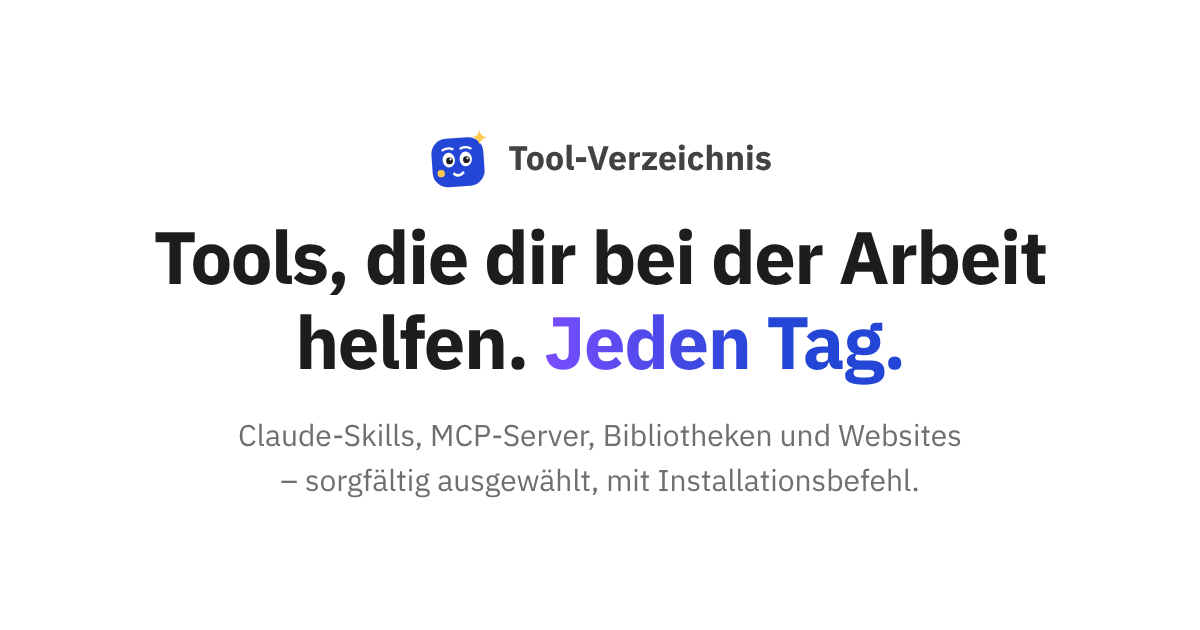
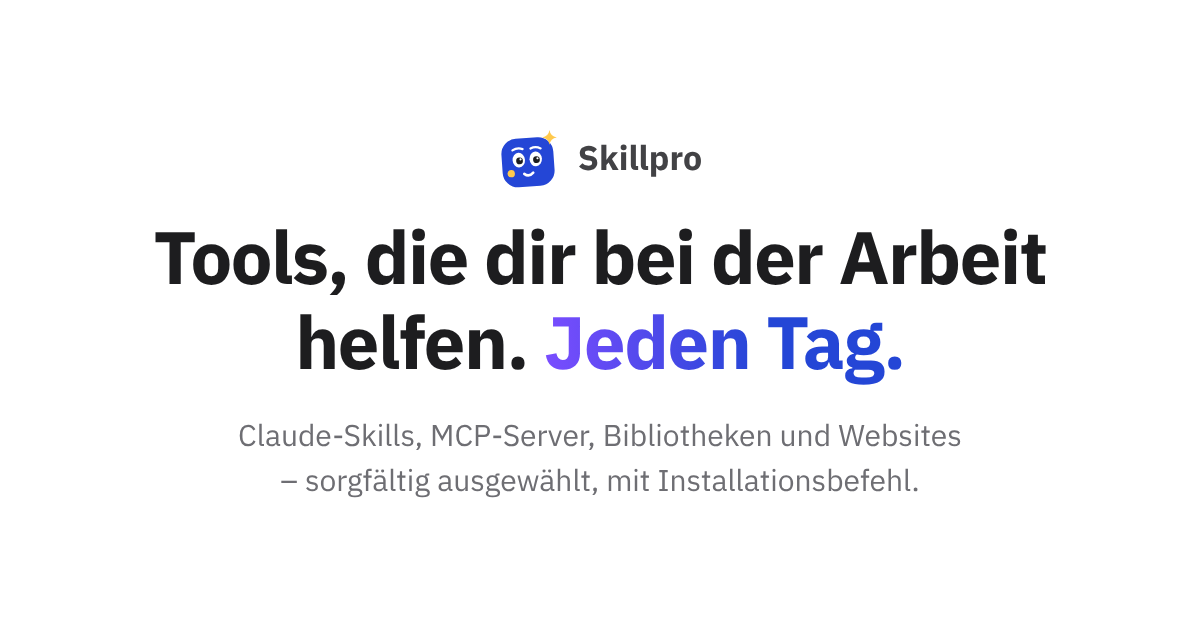
Rename the site to Skillpro
Skillpro is now the site name in all three languages: top bar, footer,
the large footer wordmark, page and tab titles (tool, category, compare
and favorites pages end in "| Skillpro"), the home title with its
description ("Skillpro – Tool-Verzeichnis für Design und Entwicklung"
and the Arabic and English equivalents), app manifest names, RSS feed
titles, JSON-LD, the home share images and the brand files.

The footer wordmark is Latin on every page now, so it uses one measured
fit (2.39 characters per em, 7% margin) and the same tracking in all
languages, and may grow to 15rem.

Claude-Session: https://claude.ai/code/session_01LGqogJL11KDokJKinNCQ2R

Changed region(s): [[0.3392, 0.2111, 0.6475, 0.3016]]

diff --git a/src/i18n/ui.ts b/src/i18n/ui.ts
@@ -1,11 +1,11 @@
 // نصوص الواجهة لكل لغة (وقت البناء). المفاتيح المنتهية بـ _h فيها HTML وتُعرض بـ set:html.
 // نصوص السكربتات في المتصفح موجودة في src/i18n/client.js.
 const ar = {
-  siteName: "دليل الأدوات",
-  siteTitle: "دليل أدوات التصميم والتطوير",
+  siteName: "Skillpro",
+  siteTitle: "Skillpro – دليل أدوات التصميم والتطوير",
   skip: "تخطَّ إلى المحتوى",
   home: "الرئيسية",
-  homeAria: "دليل الأدوات: الصفحة الرئيسية",
+  homeAria: "Skillpro: الصفحة الرئيسية",
   navAria: "التنقل الرئيسي",
   navTools: "الأدوات",
   navBuild: "ماذا تبني؟",
@@ -25,7 +25,7 @@ const ar = {
   footColJoin: "شارك في الدليل",
   footAll: "كل الأدوات",
   footRss: "خلاصة RSS",
-  footRights: (y: number) => `© ${y} دليل الأدوات`,
+  footRights: (y: number) => `© ${y} Skillpro`,
   rssTitle: "أحدث الأدوات المضافة",
   toTop: "العودة إلى الأعلى",
   themeAria: "تبديل الوضع الداكن",
@@ -141,7 +141,7 @@ const ar = {
   officialSite: "الموقع الرسمي",
 
   // صفحة الأداة
-  toolTitle: (name: string) => `${name} | دليل أدوات التصميم والتطوير`,
+  toolTitle: (name: string) => `${name} | Skillpro`,
   crumbAria: "مسار الصفحة",
   openGitHub_h: "افتح على <bdi>GitHub</bdi>",
   openAppStore: "افتح في App Store",
@@ -186,10 +186,10 @@ const ar = {
   otherLicense: "رخصة خاصة",
   relatedTitle_h: "قد يعجبك أيضًا. <span>أدوات من القسم نفسه.</span>",
   trustTitle_h: "الأمان والثقة. <span>ما تعرفه قبل التثبيت.</span>",
-  catTitle: (name: string) => `${name} | دليل أدوات التصميم والتطوير`,
+  catTitle: (name: string) => `${name} | Skillpro`,
   catDesc: (n: number, name: string) => `${n} أداة مختارة في قسم «${name}»، مرتبة حسب نجوم GitHub، مع أمر التثبيت لكل أداة.`,
   otherCats_h: "أقسام أخرى. <span>تصفّح بقية الدليل.</span>",
-  cmpTitle: "مقارنة الأدوات | دليل أدوات التصميم والتطوير",
+  cmpTitle: "مقارنة الأدوات | Skillpro",
   cmpH1: "قارن بين الأدوات",
   cmpLead: "اختر حتى ثلاث أدوات لترى الفروق بينها جنبًا إلى جنب: من ينشرها، وأين تعمل، والرخصة، وطريقة التثبيت.",
   cmpChosen: "الأدوات المختارة للمقارنة",
@@ -226,7 +226,7 @@ const ar = {
   toolFoot: "المعلومات مأخوذة من صفحة المشروع الرسمية، وقد تتغير. تحقق من الرخصة وشروط الاستخدام قبل الاعتماد على أي أداة في عمل تجاري.",
 
   // المفضلة
-  favTitle: "المفضلة | دليل أدوات التصميم والتطوير",
+  favTitle: "المفضلة | Skillpro",
   favDesc: "الأدوات التي حفظتها في المفضلة.",
   favH1: "المفضلة",
   favLead: "الأدوات التي ضغطت عليها بالقلب تظهر هنا. تُحفظ في متصفحك فقط على هذا الجهاز.",
@@ -251,7 +251,7 @@ const ar = {
   favFoot: "المفضلة محفوظة في هذا المتصفح فقط. إن مسحت بيانات الموقع أو غيّرت الجهاز فلن تجدها.",
 
   // خلاصة RSS
-  feedTitle: "دليل أدوات التصميم والتطوير: أحدث الإضافات",
+  feedTitle: "Skillpro: أحدث الإضافات",
   feedDesc: "أحدث الأدوات المضافة إلى الدليل",
 
   // نافذة الرأي
@@ -326,11 +326,11 @@ const ar = {
 type Dict = typeof ar;
 
 const de: Dict = {
-  siteName: "Tool-Verzeichnis",
-  siteTitle: "Tool-Verzeichnis für Design und Entwicklung",
+  siteName: "Skillpro",
+  siteTitle: "Skillpro – Tool-Verzeichnis für Design und Entwicklung",
   skip: "Zum Inhalt springen",
   home: "Startseite",
-  homeAria: "Tool-Verzeichnis: Startseite",
+  homeAria: "Skillpro: Startseite",
   navAria: "Hauptnavigation",
   navTools: "Tools",
   navBuild: "Was baust du?",
@@ -349,7 +349,7 @@ const de: Dict = {
   footColJoin: "Mitmachen",
   footAll: "Alle Tools",
   footRss: "RSS-Feed",
-  footRights: (y: number) => `© ${y} Tool-Verzeichnis`,
+  footRights: (y: number) => `© ${y} Skillpro`,
   rssTitle: "Zuletzt hinzugefügte Tools",
   toTop: "Nach oben",
   themeAria: "Dunkelmodus umschalten",
@@ -462,7 +462,7 @@ const de: Dict = {
   copy: "Kopieren",
   officialSite: "Website",
 
-  toolTitle: (name: string) => `${name} | Tool-Verzeichnis`,
+  toolTitle: (name: string) => `${name} | Skillpro`,
   crumbAria: "Seitenpfad",
   openGitHub_h: "Auf GitHub öffnen",
   openAppStore: "Im App Store öffnen",
@@ -507,10 +507,10 @@ const de: Dict = {
   otherLicense: "Eigene Lizenz",
   relatedTitle_h: "Das könnte dir auch gefallen. <span>Tools aus derselben Kategorie.</span>",
   trustTitle_h: "Sicherheit und Vertrauen. <span>Was du vor der Installation wissen solltest.</span>",
-  catTitle: (name: string) => `${name} | Tool-Verzeichnis`,
+  catTitle: (name: string) => `${name} | Skillpro`,
   catDesc: (n: number, name: string) => `${n} ausgewählte Tools in der Kategorie „${name}“, nach GitHub-Sternen sortiert, mit dem Installationsbefehl für jedes Tool.`,
   otherCats_h: "Weitere Kategorien. <span>Stöbere im restlichen Verzeichnis.</span>",
-  cmpTitle: "Tools vergleichen | Tool-Verzeichnis",
+  cmpTitle: "Tools vergleichen | Skillpro",
   cmpH1: "Tools vergleichen",
   cmpLead: "Wähle bis zu drei Tools und sieh die Unterschiede nebeneinander: wer sie herausgibt, wo sie laufen, die Lizenz und die Installation.",
   cmpChosen: "Ausgewählte Tools",
@@ -546,7 +546,7 @@ const de: Dict = {
   rpThanks: "Danke! Wir prüfen das Tool und beheben, was nötig ist.",
   toolFoot: "Die Angaben stammen von der offiziellen Projektseite und können sich ändern. Prüfe Lizenz und Nutzungsbedingungen, bevor du ein Tool kommerziell einsetzt.",
 
-  favTitle: "Favoriten | Tool-Verzeichnis",
+  favTitle: "Favoriten | Skillpro",
   favDesc: "Die Tools, die du als Favoriten gespeichert hast.",
   favH1: "Favoriten",
   favLead: "Tools, die du mit dem Herz markierst, erscheinen hier. Sie werden nur in deinem Browser auf diesem Gerät gespeichert.",
@@ -570,7 +570,7 @@ const de: Dict = {
   browse: "Tools entdecken",
   favFoot: "Favoriten werden nur in diesem Browser gespeichert. Wenn du die Website-Daten löschst oder das Gerät wechselst, sind sie weg.",
 
-  feedTitle: "Tool-Verzeichnis: zuletzt hinzugefügt",
+  feedTitle: "Skillpro: zuletzt hinzugefügt",
   feedDesc: "Die zuletzt ins Verzeichnis aufgenommenen Tools",
 
   fbTitle: "Wie gefällt dir das Verzeichnis?",
@@ -640,11 +640,11 @@ const de: Dict = {
 };
 
 const en: Dict = {
-  siteName: "Tool Directory",
-  siteTitle: "Tool Directory for Design and Development",
+  siteName: "Skillpro",
+  siteTitle: "Skillpro – Tool Directory for Design and Development",
   skip: "Skip to content",
   home: "Home",
-  homeAria: "Tool Directory: home page",
+  homeAria: "Skillpro: home page",
   navAria: "Main navigation",
   navTools: "Tools",
   navBuild: "What are you building?",
@@ -663,7 +663,7 @@ const en: Dict = {
   footColJoin: "Contribute",
   footAll: "All tools",
   footRss: "RSS feed",
-  footRights: (y: number) => `© ${y} Tool Directory`,
+  footRights: (y: number) => `© ${y} Skillpro`,
   rssTitle: "Recently added tools",
   toTop: "Back to top",
   themeAria: "Toggle dark mode",
@@ -776,7 +776,7 @@ const en: Dict = {
   copy: "Copy",
   officialSite: "Website",
 
-  toolTitle: (name: string) => `${name} | Tool Directory`,
+  toolTitle: (name: string) => `${name} | Skillpro`,
   crumbAria: "Page path",
   openGitHub_h: "Open on GitHub",
   openAppStore: "Open in the App Store",
@@ -821,10 +821,10 @@ const en: Dict = {
   otherLicense: "Custom license",
   relatedTitle_h: "You might also like. <span>More tools from the same category.</span>",
   trustTitle_h: "Safety and trust. <span>What to know before you install.</span>",
-  catTitle: (name: string) => `${name} | Tool Directory`,
+  catTitle: (name: string) => `${name} | Skillpro`,
   catDesc: (n: number, name: string) => `${n} hand-picked tools in “${name}”, ranked by GitHub stars, with the install command for every tool.`,
   otherCats_h: "Other categories. <span>Browse the rest of the directory.</span>",
-  cmpTitle: "Compare tools | Tool Directory",
+  cmpTitle: "Compare tools | Skillpro",
   cmpH1: "Compare tools",
   cmpLead: "Pick up to three tools to see the differences side by side: who publishes them, where they run, the license and how to install them.",
   cmpChosen: "Tools being compared",
@@ -860,7 +860,7 @@ const en: Dict = {
   rpThanks: "Thank you! We'll review the tool and fix what's needed.",
   toolFoot: "The information comes from the official project page and may change. Check the license and terms of use before relying on any tool commercially.",
 
-  favTitle: "Favorites | Tool Directory",
+  favTitle: "Favorites | Skillpro",
   favDesc: "The tools you saved as favorites.",
   favH1: "Favorites",
   favLead: "Tools you mark with the heart appear here. They are saved only in your browser, on this device.",
@@ -884,7 +884,7 @@ const en: Dict = {
   browse: "Browse tools",
   favFoot: "Favorites are saved only in this browser. If you clear site data or switch devices, they will be gone.",
 
-  feedTitle: "Tool Directory: recent additions",
+  feedTitle: "Skillpro: recent additions",
   feedDesc: "The tools most recently added to the directory",
 
   fbTitle: "How do you like the directory?",

diff --git a/src/styles/global.css b/src/styles/global.css
@@ -1154,16 +1154,14 @@ a.tr-v:hover { color: var(--accent); text-decoration: underline; text-underline-
 .foot-lang :is(a, [aria-current]) { display: inline-flex; align-items: center; min-height: 30px; padding: 0 12px; border-radius: var(--r-full); color: var(--ink-2); text-decoration: none; transition: background-color var(--dur-fast) var(--ease), color var(--dur-fast) var(--ease); }
 .foot-lang a:hover { color: var(--ink); background: var(--fill-2); }
 .foot-lang [aria-current] { background: var(--card); color: var(--ink); font-weight: 600; }
-/* اسم الدليل كبيرًا: نصه من data-mark عبر CSS، وحجمه يملأ عرض المحتوى. --chars عدد حروفه (Base.astro)،
-   و--fit حروف كل em في خط النظام بهامش 7% (مقيس: العربية 2.41، اللاتينية 2.09)، فلا يخرج عن العرض بأي لغة */
-.foot-mark { --fit: 1.96; container-type: inline-size; padding: 0 var(--pad) clamp(10px, 2vw, 24px); overflow-x: clip; pointer-events: none; user-select: none; }
-html[lang="ar"] .foot-mark { --fit: 2.25; }
+/* اسم الموقع كبيرًا (Skillpro، لاتيني في اللغات الثلاث): نصه من data-mark عبر CSS، وحجمه يملأ عرض المحتوى حتى 15rem.
+   --chars عدد حروفه (Base.astro)، و--fit حروف كل em بالخط العريض وتتبع -0.04em بهامش 7% (مقيس: 2.39)، فلا يخرج عن العرض.
+   إن تغيّر الاسم فقِس من جديد */
+.foot-mark { --fit: 2.22; container-type: inline-size; padding: 0 var(--pad) clamp(10px, 2vw, 24px); overflow-x: clip; pointer-events: none; user-select: none; }
 .foot-mark::before {
-  content: attr(data-mark); display: block; text-align: center; white-space: nowrap;
-  font-size: min(10.5rem, 100cqi / var(--chars) * var(--fit)); font-weight: 700; line-height: 1.1; color: color-mix(in srgb, var(--ink) 7%, var(--bg-alt));
+  content: attr(data-mark); display: block; text-align: center; white-space: nowrap; letter-spacing: -0.04em;
+  font-size: min(15rem, 100cqi / var(--chars) * var(--fit)); font-weight: 700; line-height: 1.1; color: color-mix(in srgb, var(--ink) 7%, var(--bg-alt));
 }
-html[lang="ar"] .foot-mark::before { line-height: 1.5; }
-html:is([lang="de"], [lang="en"]) .foot-mark::before { letter-spacing: -0.04em; }
 @supports (animation-timeline: view()) {
   @media (prefers-reduced-motion: no-preference) {
     .foot-mark::before { animation: foot-rise linear both; animation-timeline: view(); animation-range: entry 0% entry 100%; }

diff --git a/DESIGN.md b/DESIGN.md
@@ -1,6 +1,6 @@
 # قواعد التصميم
 
-دليل الأدوات مصمم بأسلوب Apple: هدوء، مساحات مريحة غير مبالغ فيها، لون مميز واحد، وتفاصيل دقيقة.
+Skillpro مصمم بأسلوب Apple: هدوء، مساحات مريحة غير مبالغ فيها، لون مميز واحد، وتفاصيل دقيقة.
 هذه القواعد ملزمة لأي تعديل على الواجهة، سواء كتبه شخص أو أداة ذكاء اصطناعي.
 القيم كلها معرّفة كمتغيرات في `src/styles/global.css` (قسم Tokens)، فلا تكتب ألوانًا أو مسافات بأرقام مباشرة.
 
@@ -130,7 +130,7 @@
 - **«اقترح أداة»** `.sg-row` تحت «لا نتيجة»، بأيقونة محايدة (المصباح بلون النص لا الذهبي: الذهبي للنجوم فقط).
 - **«الأكثر نسخًا»** `.pop-list`: صفوف مرقّمة بخلفية `--bg-alt` مثل «الأحدث»، بلا أعداد النسخ (لا نعرض أرقامًا صغيرة في البداية). مخفي حتى تصل البيانات.
 - **النشرة البريدية** `.nl`: بطاقة واحدة بأيقونة الظرف على `--accent-soft` (الجديد)، وحقل وزر أساسي، وسطر صغير عن التأكيد والخصوصية. تظهر حين تُضبط فقط.
-- **التذييل** `.foot` (في `Base.astro`): بأسلوب Apple وVercel على `--bg-alt`. من الأعلى: ملاحظات الصفحة بخط صغير، ثم الشعار واسم الدليل ووصفه وسطر الأعداد وزر «ساعدني أختار» الكبسولي، وبجانبها ثلاثة أعمدة روابط (الدليل، أقسام شائعة: أكبر ستة أقسام، شارك في الدليل). ثم شريط الحقوق والخصوصية واللغات (مفتاح مقسّم مثل `.ctabs`). وفي الأسفل اسم الدليل كبيرًا بلون قريب من الخلفية (`--ink` بنسبة 7%)، نصه من CSS ومخفي عن قارئات الشاشة، وحجمه يملأ عرض المحتوى بأي لغة دون أن يخرج عنه (`--chars` من Base و`--fit` لكل خط في global.css: إن غيّرت اسم الدليل فقِس عرضه من جديد). الأعمدة `<details>`: مفتوحة دائمًا على الشاشات الواسعة، وأكورديون مغلق بسهم على الجوال (`ui.js`)، ومفتوحة كلها بلا JavaScript. أهداف اللمس 32px على الشاشات الواسعة و40px على الجوال.
+- **التذييل** `.foot` (في `Base.astro`): بأسلوب Apple وVercel على `--bg-alt`. من الأعلى: ملاحظات الصفحة بخط صغير، ثم الشعار واسم الدليل ووصفه وسطر الأعداد وزر «ساعدني أختار» الكبسولي، وبجانبها ثلاثة أعمدة روابط (الدليل، أقسام شائعة: أكبر ستة أقسام، شارك في الدليل). ثم شريط الحقوق والخصوصية واللغات (مفتاح مقسّم مثل `.ctabs`). وفي الأسفل اسم الموقع (Skillpro) كبيرًا بلون قريب من الخلفية (`--ink` بنسبة 7%)، نصه من CSS ومخفي عن قارئات الشاشة، وحجمه يملأ عرض المحتوى بأي لغة دون أن يخرج عنه (`--chars` من Base و`--fit` في global.css: إن غيّرت اسم الموقع فقِس عرضه من جديد). الأعمدة `<details>`: مفتوحة دائمًا على الشاشات الواسعة، وأكورديون مغلق بسهم على الجوال (`ui.js`)، ومفتوحة كلها بلا JavaScript. أهداف اللمس 32px على الشاشات الواسعة و40px على الجوال.
 - **صفحة الخصوصية** `.prose`: نص للقراءة بعرض 68 حرفًا وعناوين أقسام صغيرة.
 - **صفحة المقارنة** `.cmp`: شرائح الأدوات المختارة (`--ink` لأنها المختار) وحقل إضافة بقائمة نتائج (عند ثلاث أدوات يصير للقراءة فقط لا معطّلًا، فيبقى التركيز فيه ويقول نصه المؤقت السبب)، ثم جدول في بطاقة: عناوين الصفوف بالرمادي وثابتة عند التمرير الأفقي على الجوال، والتحذير وحده بالبرتقالي مع أيقونته. على الجوال تظهر الأداة الأولى كاملة وطرف الثانية دعوةً للتمرير.
 - **صفحة القسم**: رأس بمسار الصفحة وأيقونة القسم الكبيرة والعنوان ووصف قصير، ثم البطاقات برقم الترتيب داخل القسم، ثم شرائح الأقسام الأخرى.

diff --git a/README.md b/README.md
@@ -1,4 +1,4 @@
-# دليل أدوات التصميم والتطوير
+# Skillpro: دليل أدوات التصميم والتطوير
 
 دليل عربي منظّم لأفضل مهارات Claude وخوادم MCP والمكتبات والأدوات، مع وصف قصير لكل أداة، ونجوم GitHub، وأمر التثبيت، ورابط المستودع والموقع الرسمي، وأداة "ماذا تبني؟" التي تعرض الأدوات المناسبة لنوع مشروعك.
 
